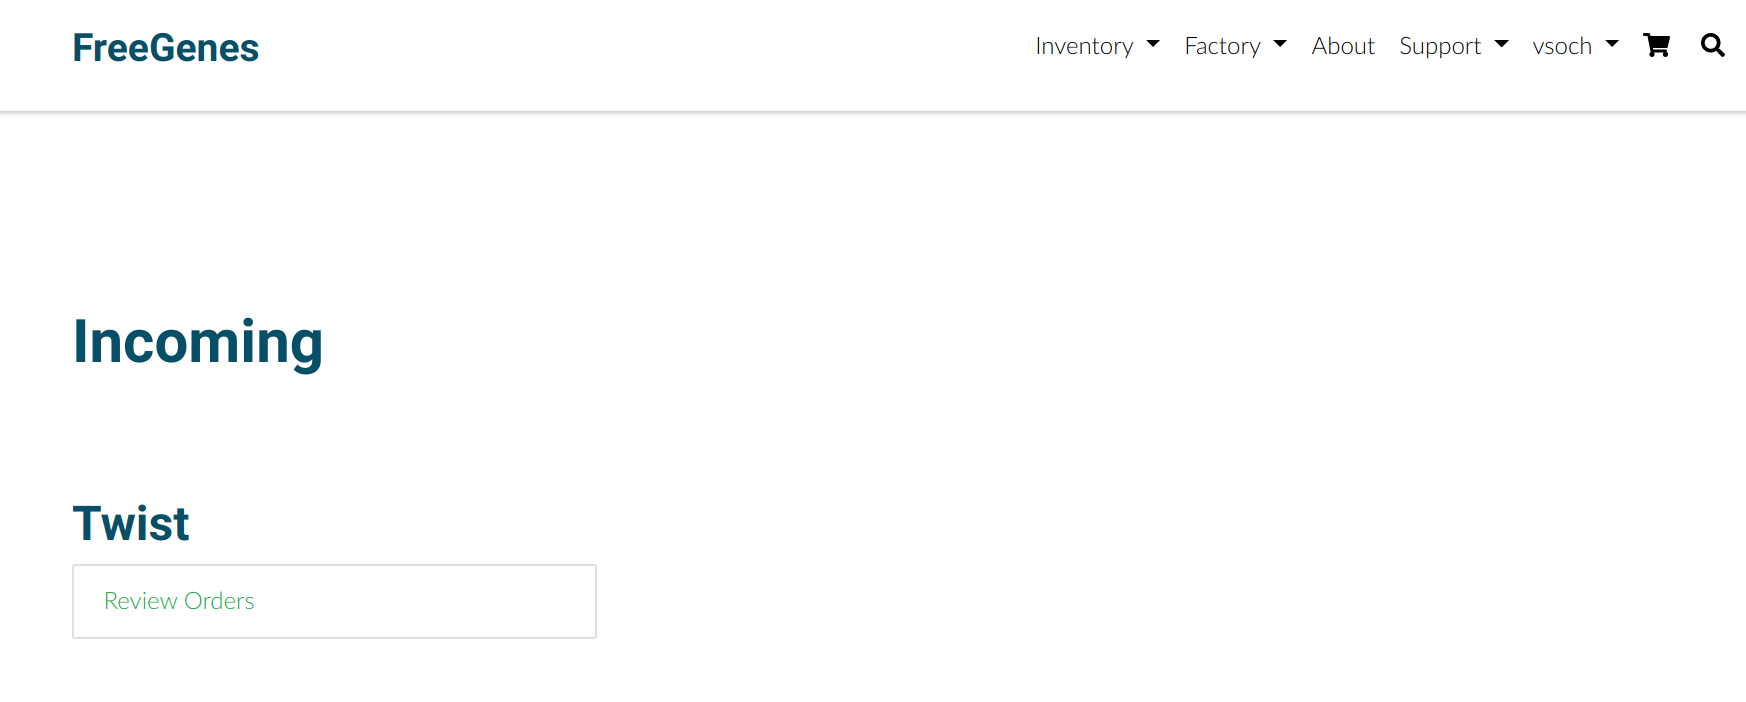
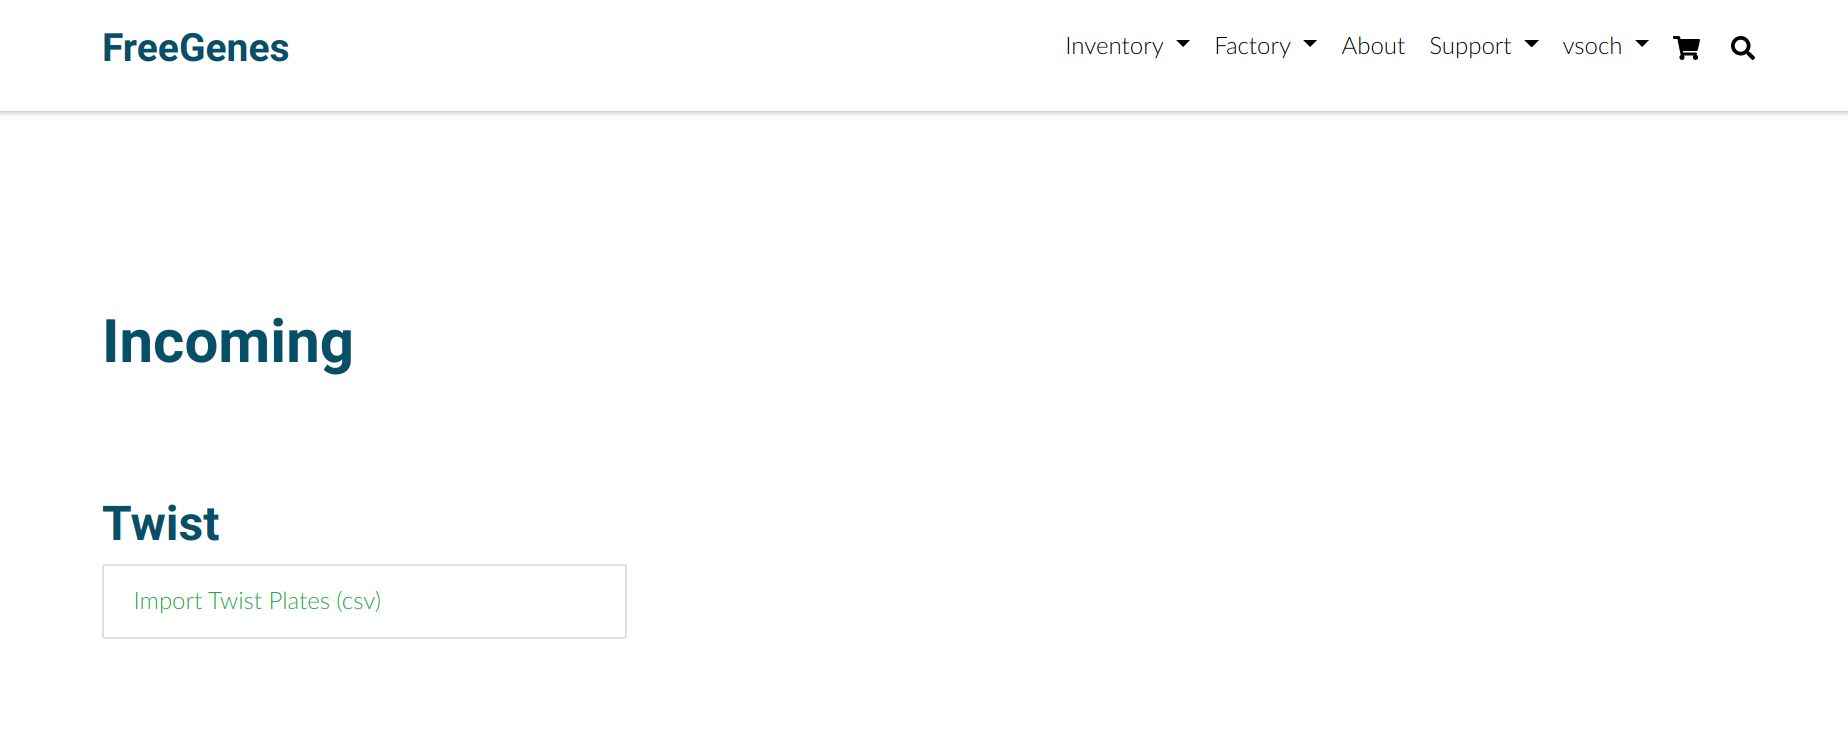
adding images for docs

diff --git a/docs/_docs/usage/interface.md b/docs/_docs/usage/interface.md
@@ -73,25 +73,18 @@ to result):
 
 ![factory_incoming.png]({{ site.baseurl }}/docs/usage/factory_incoming.png)
 
-When you click to review twist orders, we use the Twist API to see the listing:
+When you click to import a twist plate map (csv), you are presented with a form to 
+upload it:
 
-![factory_orders.png]({{ site.baseurl }}/docs/usage/factory_orders.png)
+![twist_import_1.png]({{ site.baseurl }}/docs/usage/twist_import_1.png)
 
-Clicking on any particular order will show metadata for the order.
+When you click Submit, if the plate doesn't already exist, you'll be asked for
+metadata about it:
 
-![factory_twist_order_1.png]({{ site.baseurl }}/docs/usage/factory_twist_order_1.png)
+![twist_import_2.png]({{ site.baseurl }}/docs/usage/twist_import_2.png)
 
-and plates for the order:
-
-![factory_twist_order_2.png]({{ site.baseurl }}/docs/usage/factory_twist_order_2.png)
-
-If the order has shipments associated, the user is given the option to import them
-into the FreeGenes Factory:
-
-![factory_plate_import.png]({{ site.baseurl }}/docs/usage/factory_plate_import.png)
-
-This will fire off a task (run async on the server) to do the import. Additionally,
-navigating to the page fires off an async task to cache some of the data that is needed.
+And then you can click the submit button to add to FreeGenes. Note that this
+view creates plates and wells, but does not generate samples.
 
 ## Shipments
 

diff --git a/docs/_docs/development/setup.md b/docs/_docs/development/setup.md
@@ -111,27 +111,12 @@ To create your key:
 
 If the value is found to be None, emails will not be sent.
 
-### Twist Secrets
+### Twist Import
 
-The [Twist API](https://twistapi.docs.apiary.io) is an optional integration
-that you can use to import orders. You should define the following parameters
-in your config.py, in the case that you want to use it:
+The Twist API is buggy and getting tokens is challenging, so we use a simple
+strategy of importing Plate Maps (export from Twist) to import plates.
+You don't need any secrets here.
 
-The email associated with the Twist account
-
-```python
-FREEGENES_TWIST_EMAIL=username@domain.com
-```
-
-And then enter a twist token and end user token that you've been granted:
-
-```python
-FREEGENES_TWIST_TOKEN=xxxxxxxxxxxxxxxxxxxxxxxxxx
-FREEGENES_TWIST_EUTOKEN=xxxxxxxxxxxxxxxxxxxxxx
-```
-
-If you don't define these variables, they will be set to None and the
-option to import orders from Twist simply won't be presented.
 
 ### Authentication Secrets
 
